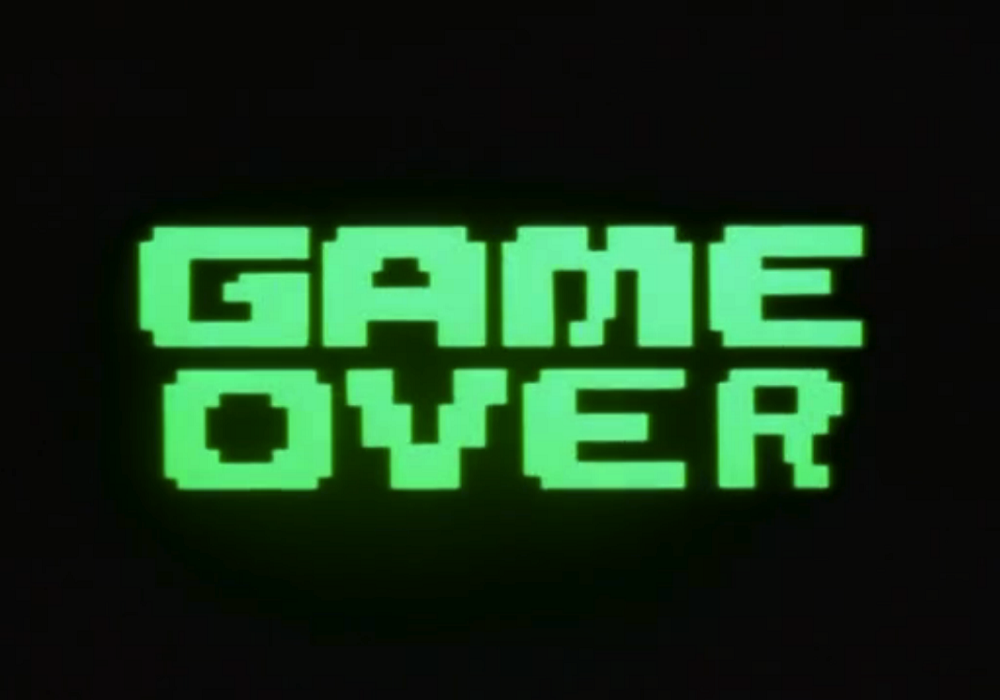
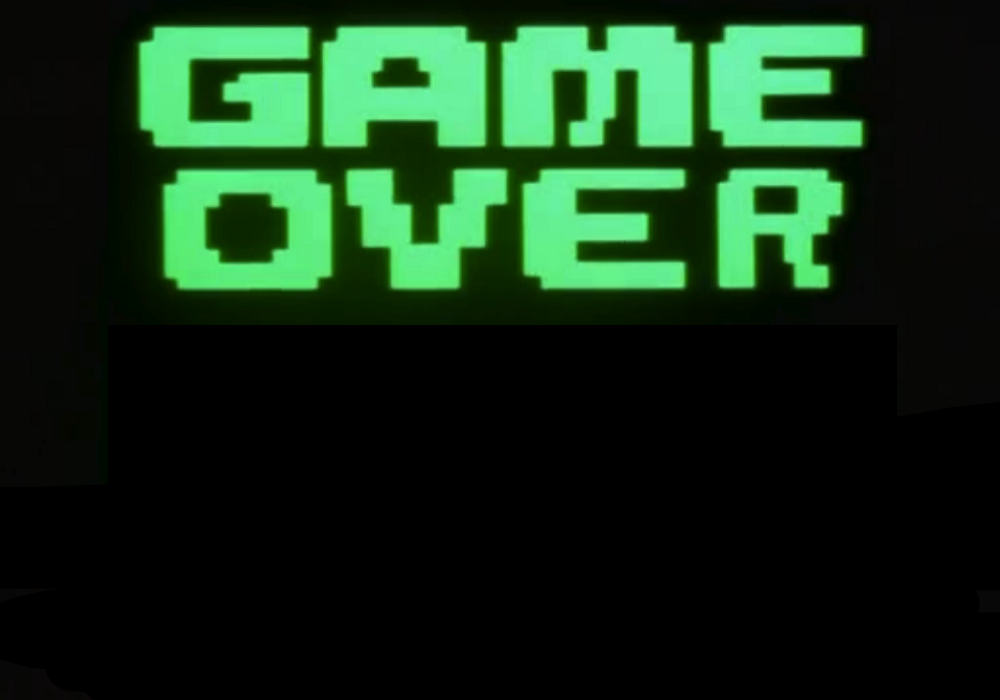
Added ranking at the end of game

diff --git a/Ranking.py b/Ranking.py
@@ -1,31 +1,45 @@
 from datetime import date
 
 name = ""
+rank = []
+
 def SetUsername():
     global name
     name = input("USERNAME: ")
 
 def GetUsername():
     return name
-    
+
+def GetRanking():
+    return rank
 
 def SetRank(score,level,name):
     with open("Ranking.txt", "a") as txt:
         day = date.today()
-        txt.write("Date:   ")
-        txt.write(str(day))
-        txt.write("\tUsername:   ")
-        txt.write(name)
-        txt.write("\tLevel:   ")
-        txt.write(str(level))
-        txt.write("\tScore:   ")
-        txt.write(str(score))
+        #data
+        txt.write(str(day) + ";")
+        #nome do usuário
+        txt.write(name + ";")
+        #level
+        txt.write(str(level) + ";")
+        #pontuação
+        txt.write(str(score) + ";")
         txt.write("\n")    
         txt.close()
 
-def ShowRanking():
-    rank = open("Ranking.txt", 'r')
-    rank_contents = rank.read()
-    print(rank_contents)
+def LoadRanking():
+    global rank
+    rank = []
+    file = open("Ranking.txt", 'r')
+    for linha in file:
+        user = linha.rstrip().split(';')
+        rank.append(user)
+    orderRanking(rank)
         
-    
+        
+def orderRanking(rank):
+    #insertion Sort
+    for i in range(len(rank)-1):
+        for j in range(i+1, len(rank)):
+            if int(rank[i][3]) < int(rank[j][3]):
+                rank[i], rank[j] = rank[j], rank[i]

diff --git a/Main.py b/Main.py
@@ -27,8 +27,6 @@ while game_map.inGame:
     game_map.screen.fill((255, 255, 255))
 
     game_map.blitBackgroundMap()    
-
-    game_map.checkEvents()
     
     game_map.player.animatePlayerSprite()
 
@@ -48,12 +46,23 @@ while game_map.inGame:
 
     pygame.display.update()
 
-if game_map.win:
-    game_map.screen.blit(pygame.image.load('background_images/you_win.jpg'), (0, 0))
-else: 
-    game_map.screen.blit(pygame.image.load('background_images/game_over.png'), (0, 0))
-    
-pygame.display.update()
-Ranking.SetRank(game_map.player.score,game_map.level,Ranking.GetUsername())
+    game_map.checkEvents()
 
-Ranking.ShowRanking()
+if not game_map.windowClosed:
+    if game_map.win:
+        game_map.screen.blit(pygame.image.load('background_images/you_win.jpg'), (0, 0))
+    else: 
+        game_map.screen.blit(pygame.image.load('background_images/game_over.png'), (0, 0))
+        
+    Ranking.SetRank(game_map.player.score, game_map.level, Ranking.GetUsername())
+
+    Ranking.LoadRanking()
+    ranking = Ranking.GetRanking()
+
+    count = 1
+    for score in ranking:
+        game_map.screen.blit(pygame.font.SysFont('arial', 50).render(str(count) + ". " + score[1] + ": " + score[3] , True, (255, 255, 255)), (50, 300 + (60*count)))
+        count += 1
+        if count > 5: break
+
+    pygame.display.update()

diff --git a/maps.py b/maps.py
@@ -24,6 +24,7 @@ class Map():
         self.bossTime = True
         self.inGame = True
         self.win = False
+        self.windowClosed = False
         self.showGuiLevel = True
         self.start_time = time.time()
         self.backgroundIndex = 0
@@ -205,10 +206,15 @@ class Map():
             print('Q PRESSED')
             for m in self.monsters:
                 self.monsters.remove(m)
+                self.player.addScore(200)
             for a in self.allies:
                 self.allies.remove(a)
 
         for event in pygame.event.get():
+            if event.type == pygame.QUIT:
+                self.inGame = False
+                self.windowClosed = True
+                pygame.quit()
             if event.type == pygame.KEYDOWN:
                 if event.key == pygame.K_SPACE:
                     self.player.shoot(self)
